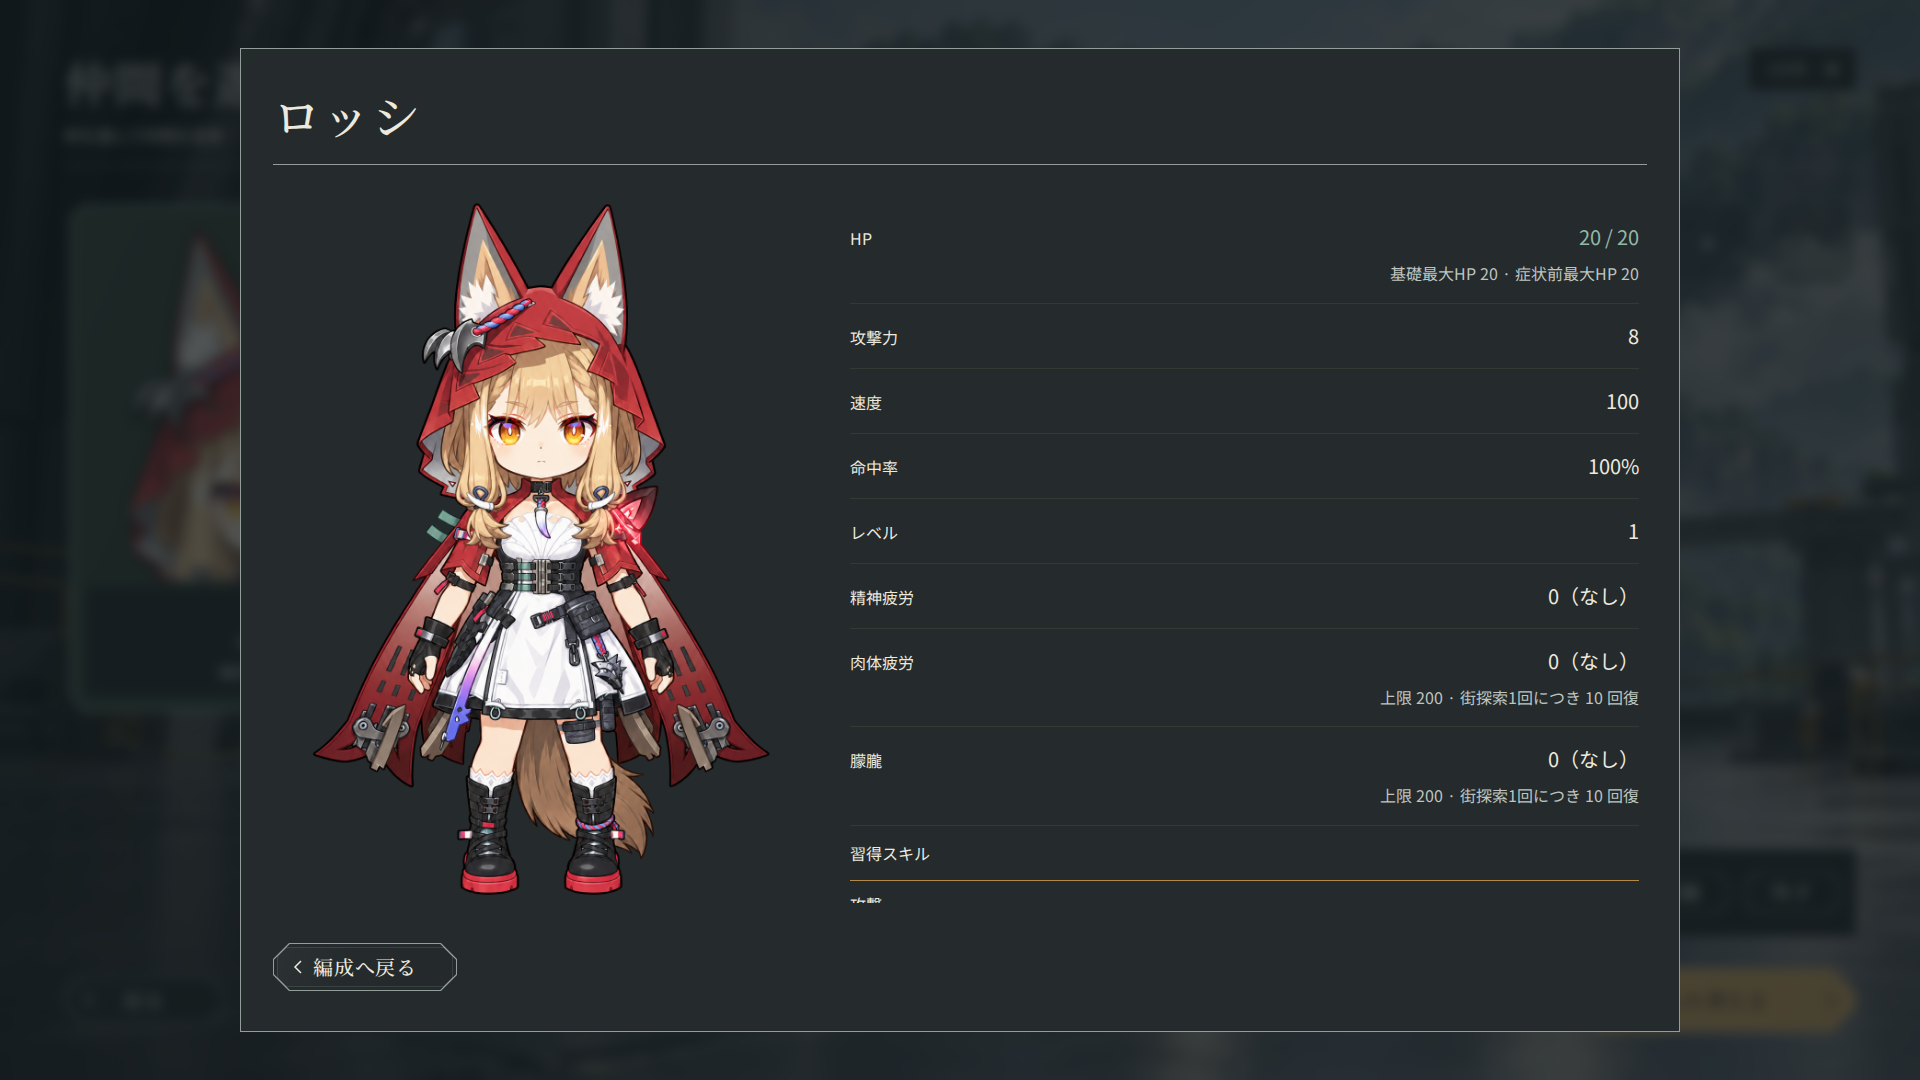
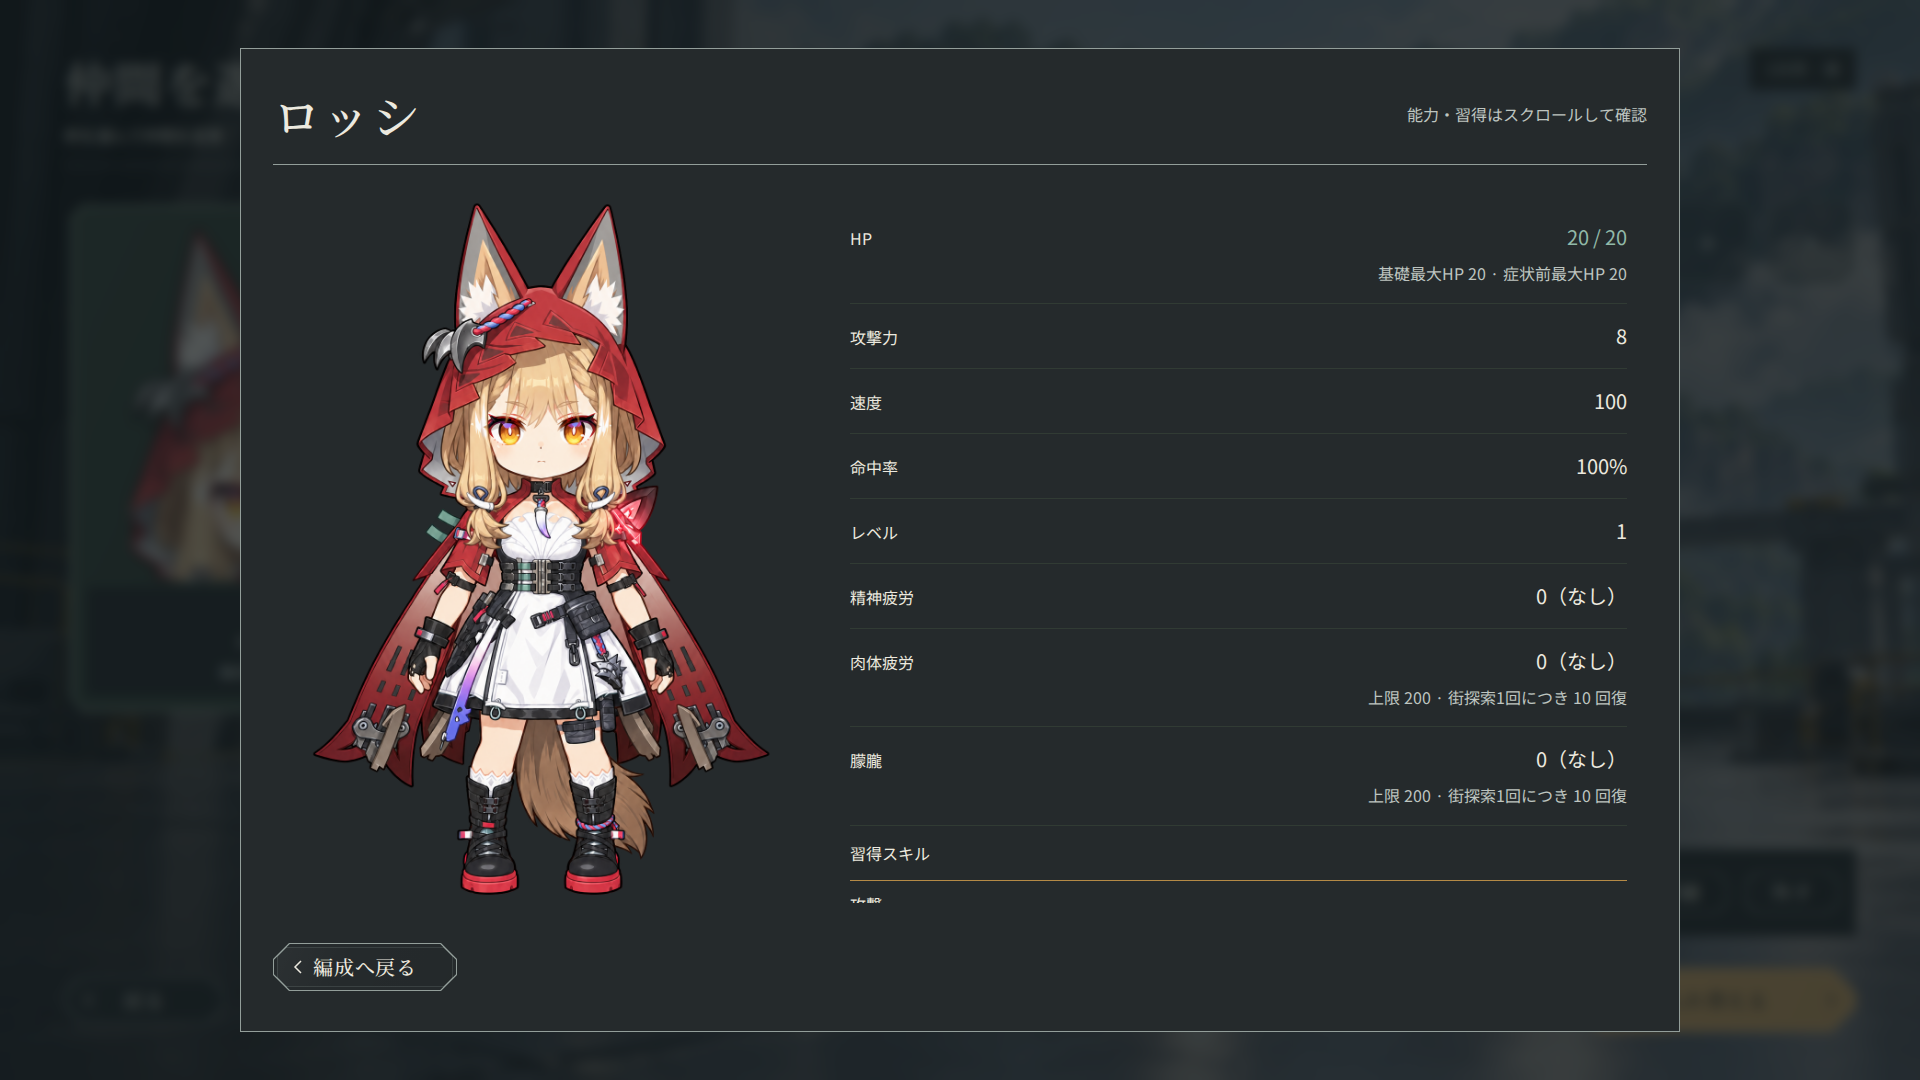
fix: clarify detail scrolling and verify the final skill

diff --git a/src/web/characterDetailsUi.ts b/src/web/characterDetailsUi.ts
@@ -18,9 +18,10 @@ export function mountCharacterDetailsUi(
   dialog.setAttribute("aria-labelledby", "character-details-name");
   dialog.innerHTML = `<footer class="ui-actions"><button type="button" class="ui-button ui-back" data-details-back>編成へ戻る</button></footer>
     <header class="character-details-heading">
-    <h2 class="ui-title" id="character-details-name"></h2></header>
+    <h2 class="ui-title" id="character-details-name"></h2>
+    <p class="character-details-scroll-hint" id="character-details-scroll-hint">能力・習得はスクロールして確認</p></header>
     <div class="character-details-body"><div class="character-details-portrait" data-details-portrait></div>
-    <div class="character-details-info" tabindex="0" role="region" aria-label="能力と状態"><dl class="character-details-stats" data-details-stats></dl>
+    <div class="character-details-info" tabindex="0" role="region" aria-label="能力と状態" aria-describedby="character-details-scroll-hint"><dl class="character-details-stats" data-details-stats></dl>
     <p class="character-details-symptoms" data-details-symptoms></p>
     <p class="character-details-unavailable" data-details-unavailable></p>
     <section class="character-details-skills" aria-label="習得スキル" data-details-skills></section></div></div>`;

diff --git a/src/web/party.css b/src/web/party.css
@@ -376,6 +376,11 @@
   grid-template-columns: minmax(0, 2fr) minmax(0, 3fr);
   gap: 2rem;
 }
+.ui-dialog .character-details-scroll-hint {
+  margin: 0 0 0 auto;
+  color: var(--ui-muted);
+  font: var(--ui-body-size) / 1.6 var(--ui-font);
+}
 .ui-dialog .character-details-portrait {
   min-height: 0;
 }
@@ -389,7 +394,18 @@
   min-height: 0;
   max-height: none;
   overflow-y: auto;
-  padding: 0.5rem;
+  scrollbar-gutter: stable;
+  padding: 0.5rem 0.5rem 1.5rem;
+}
+.ui-dialog :is(.character-details-info, .character-details-body)::-webkit-scrollbar {
+  width: 12px;
+}
+.ui-dialog :is(.character-details-info, .character-details-body)::-webkit-scrollbar-track {
+  background: var(--ui-pressed);
+}
+.ui-dialog :is(.character-details-info, .character-details-body)::-webkit-scrollbar-thumb {
+  border: 3px solid var(--ui-pressed);
+  background: var(--ui-metal);
 }
 .character-details.ui-dialog .character-details-stats dd {
   font: var(--ui-emphasis-size) / 1.6 var(--ui-font);

diff --git a/docs/visual-records/formation/README.md b/docs/visual-records/formation/README.md
@@ -6,9 +6,12 @@
 - [出発準備](departure-1920.webp)：既存ロッシ原画と実HP、空き3枠、右下の出発。
 - [仲間選択](selection-1920.webp)：未確定候補、右側プレビュー、小さい4枠。初期仲間はロッシのみ。
 - [キャラ詳細](details-1920.webp)：実HP・能力・症状・習得、読取り専用。
+- [キャラ詳細の末尾](details-bottom-1920.webp)：Tabで能力領域へ移り、Endで内部スクロールした実画面。最後の習得「回復」の説明まで全体表示。
 
 [位置計測](geometry.json)は通常画面のDOM bboxと主操作24px・戻る16pxの角落ちのcomputed style。pageerrorは0件。[読込確認](readiness.json)には顔PNGのHTTP 200・自然寸法256×320、使用フォントのCDP記録を残す。概念図は[別の資料](../../ui-concepts/README.md)であり、この記録は画像を一枚貼りした画面ではない。
 
 多数候補・長文・症状・非活性の検証は`tests/e2e/party-ui.spec.ts`の隔離fixtureを使い、実ゲームへ仲間や症状を追加しない。固定Playwrightコンテナの画面はテスト出力に残る。背景・人物の取得を失敗させた追加確認では暗い下地と名前・HP・操作を保持する。配布ビルドと実素材の通しE2EはPRのActions結果を参照する。
 
 新しいUIへ変更した際は、古い画面を現在の表示例として流用せず、本記録と共通仕様・適用一覧の整合を確認する。
+
+詳細は右上にスクロール案内を置き、末尾に24pxの余白を確保する。[末尾の計測](details-scroll.json)は通常フローのTab→End後の値。CIも同じキー操作で最終スキル全体がviewport内に入ることを確認し、先頭と末尾を別々に保存する。
